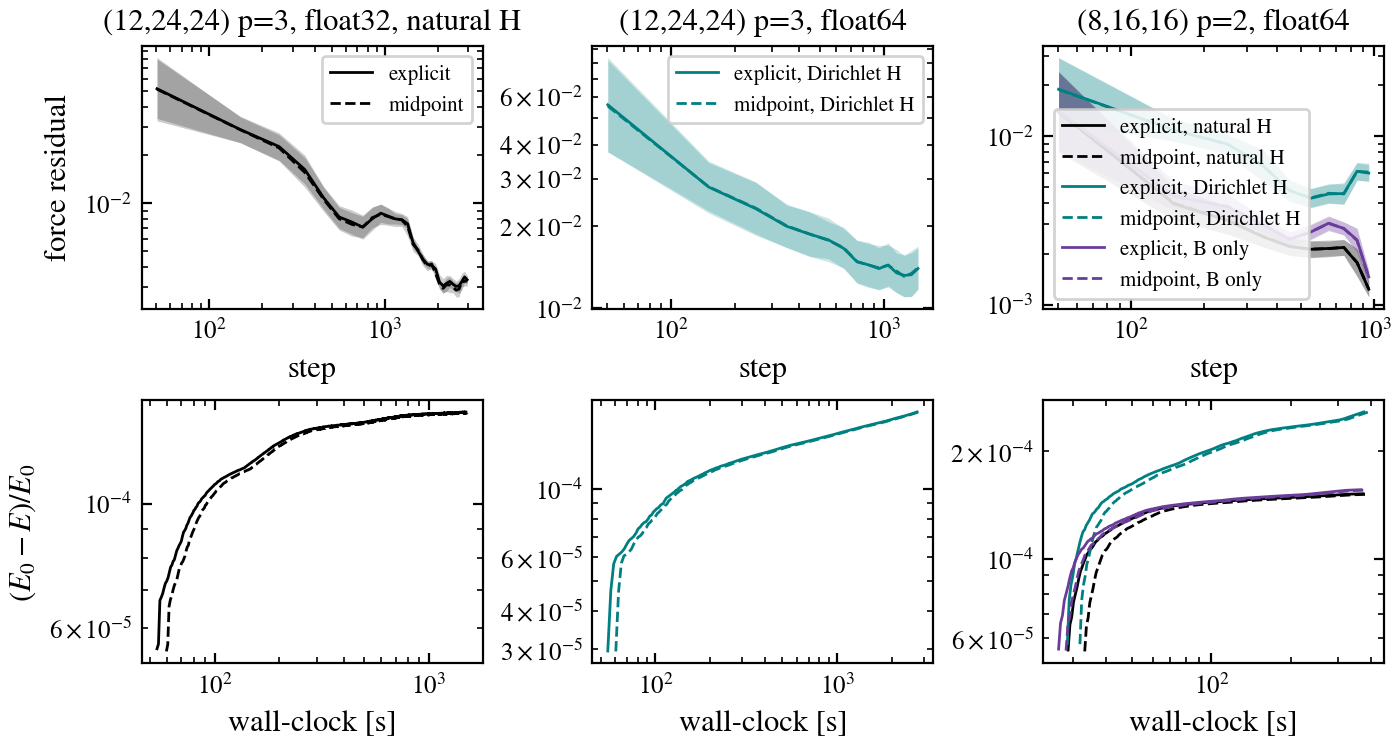
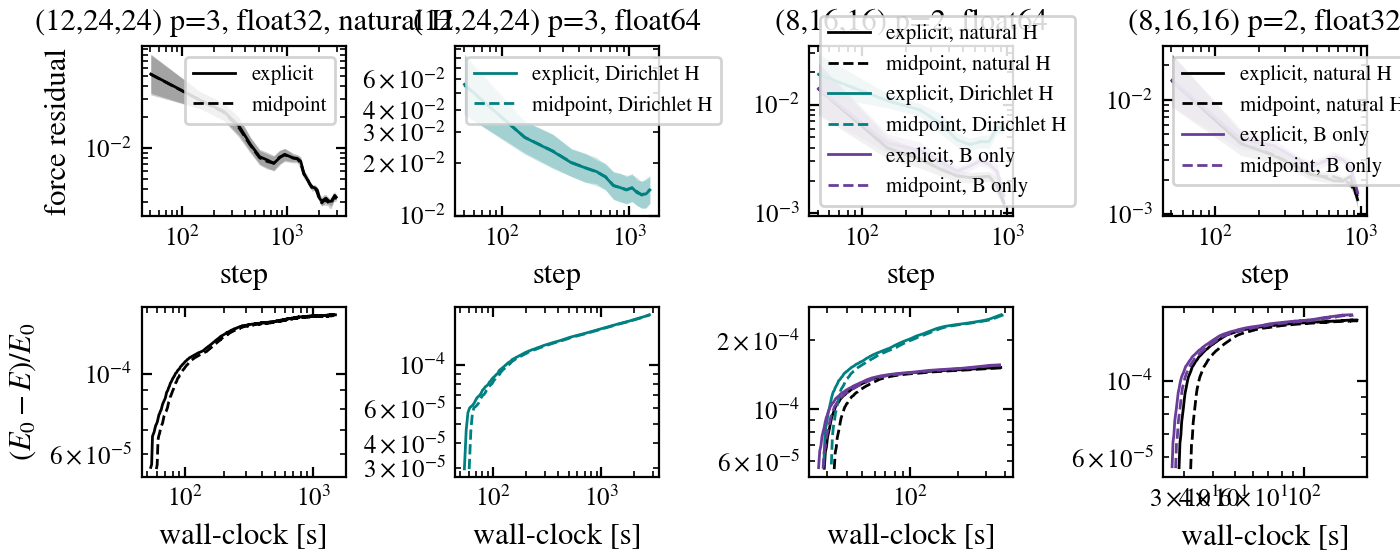
midpoint study: the (route) x (precision) x (scheme) figure on (8,16,16) p=2, float32 twins of the small arms

diff --git a/scripts/midpoint_figures.py b/scripts/midpoint_figures.py
@@ -29,11 +29,23 @@ ARMS = {
     "mp_small_f64_Hd":    ("small", 1, 1, "midpoint, Dirichlet H"),
     "ex_small_f64_bonly": ("small", 2, 0, "explicit, B only"),
     "mp_small_f64_bonly": ("small", 2, 1, "midpoint, B only"),
+    "ex_small_f32":       ("small32", 0, 0, "explicit, natural H"),
+    "mp_small_f32":       ("small32", 0, 1, "midpoint, natural H"),
+    "ex_small_f32_bonly": ("small32", 2, 0, "explicit, B only"),
+    "mp_small_f32_bonly": ("small32", 2, 1, "midpoint, B only"),
 }
 PANELS = {
     "f32": "(12,24,24) p=3, float32, natural H",
     "f64": "(12,24,24) p=3, float64",
     "small": "(8,16,16) p=2, float64",
+    "small32": "(8,16,16) p=2, float32",
+}
+#: The 2 x 2 x 2 comparison: (precision, route) -> (explicit arm, midpoint arm)
+EIGHT = {
+    ("float32", "H"): ("ex_small_f32", "mp_small_f32"),
+    ("float32", "B"): ("ex_small_f32_bonly", "mp_small_f32_bonly"),
+    ("float64", "H"): ("ex_small_f64", "mp_small_f64"),
+    ("float64", "B"): ("ex_small_f64_bonly", "mp_small_f64_bonly"),
 }
 
 
@@ -121,6 +133,34 @@ def picard_figure(arms, figdir):
     fig.savefig(os.path.join(figdir, "picard.png"))
 
 
+@house_style()
+def eight_figure(arms, figdir):
+    """Helicity and force traces of (route H / B only) x (float32 / float64) x
+    (explicit / midpoint) on the (8,16,16) p=2 mesh: rows the quantity,
+    columns the precision, colour the route, dash the scheme."""
+    d = dict(arms)
+    fig, axes = plt.subplots(2, 2, figsize=figsize("text", rows=2, cols=2, aspect=0.7), sharex="col")
+    for col, prec in enumerate(("float32", "float64")):
+        for route, colour in (("H", 0), ("B", 2)):
+            for dash, arm in enumerate(EIGHT[(prec, route)]):
+                if arm not in d:
+                    continue
+                j = d[arm]
+                st = arm_style(colour, dash, label=f"{'explicit' if dash == 0 else 'midpoint'}, "
+                                                   f"{'H' if route == 'H' else 'B only'}")
+                h = np.array(j["qoi"]["helicity"])
+                axes[0, col].plot(j["qoi"]["it"], h - j["ic"]["H"], marker=".", **st)
+                plot_trace(axes[1, col], j["trace"]["resid"], log=True, **st)
+        axes[0, col].axhline(0, color="0.7", lw=0.6, zorder=0)
+        axes[0, col].set_yscale("symlog", linthresh=1e-12)
+        axes[0, col].set(title=f"(8,16,16) p=2, {prec}")
+        axes[1, col].set(xscale="log", yscale="log", xlabel="step")
+        axes[0, col].legend()
+    axes[0, 0].set_ylabel(r"$H - H_0$  ($\|B\|_M = 1$)")
+    axes[1, 0].set_ylabel("force residual")
+    fig.savefig(os.path.join(figdir, "eight.png"))
+
+
 def summary(arms):
     rows = ["| arm | steps | stop | s/step | eval/step | dt halved | unconverged | E removed | resid final (mean last 100) | identity max | dH abs (from the IC) | dH / H0 |",
             "|---|---|---|---|---|---|---|---|---|---|---|---|"]
@@ -155,6 +195,7 @@ def main():
     helicity_figure(arms, figdir)
     descent_figure(arms, figdir)
     picard_figure(arms, figdir)
+    eight_figure(arms, figdir)
     table = summary(arms)
     with open(os.path.join(cli.root, "summary.md"), "w") as fh:
         fh.write(table + "\n")

diff --git a/docs/research/implicit_midpoint_2026-09-04.md b/docs/research/implicit_midpoint_2026-09-04.md
@@ -197,6 +197,22 @@ Sampled: explicit -6.7e-8 / -1.1e-7 / -1.0e-7 / -9.8e-8 / -9.5e-8 / -9.2e-8 /
 descent, same force floor, 1% more wall-clock, no halving, no unconverged
 step, energy monotone; the Picard defect ends at 5e-17.
 
+### 4.4 (route) x (precision) x (scheme), (8,16,16) p=2, 1000 steps: `eight.png`
+
+The float32 twins of the natural-H and B-only arms of 4.1:
+
+| arm | s/step | eval/step | E removed | ||F|| final | helicity drift (driver, from step 1) |
+|---|---|---|---|---|---|
+| explicit, natural H, float32 | 0.17 | 1 | -- | 2.1e-3 | -4.4e-7 |
+| midpoint, natural H, float32 | 0.17 | 2.01 | -- | -- | -5.0e-7 |
+| explicit, B only, float32 | 0.16 | 1 | -- | 2.9e-3 | -4.6e-8 |
+| midpoint, B only, float32 | 0.16 | 2.03 | -- | -- | -1.8e-7 |
+
+In float32 the four lines sit on the same floor as their float64 twins'
+projection errors (a few 1e-7), the midpoint correction is inside the
+solver tolerance (one sweep converges), and the "energy increases" count
+(130-180 of 1000) is the float32 resolution of `E ~ 0.5` again.
+
 ## 5. Verdict
 
 * **Implemented, on the branch, tested**: `--scheme midpoint`, the
@@ -223,12 +239,12 @@ step, energy monotone; the Picard defect ends at 5e-17.
 
 ## 6. GPU time
 
-5.5 h of the 10 h budget (`sacct`, gpu-h100, 2026-09-04 10:25-13:25):
+5.9 h of the 10 h budget (`sacct`, gpu-h100, 2026-09-04 10:25-14:15):
 1.4 h finding out that the nonlinear midpoint does not converge (two smoke
 runs, four probes, one Anderson and one preconditioner probe, two
 per-sweep traces), 0.5 h tests and smoke runs of the scheme that works,
-3.6 h the study (float32 production pair 0.95 h, float64 production pair
-1.7 h, six small float64 arms 0.9 h). Every arm ran on
+4.0 h the study (float32 production pair 0.95 h, float64 production pair
+1.7 h, six small float64 arms 0.9 h, four small float32 arms 0.4 h). Every arm ran on
 `.claude/worktrees/implicit-midpoint` through `slurm/run.sh` with the
 worktree on `PYTHONPATH` (the log header says so).
 

diff --git a/docs/research/implicit_midpoint_2026-09-04/summary.md b/docs/research/implicit_midpoint_2026-09-04/summary.md
@@ -10,3 +10,7 @@
 | mp_small_f64_Hd | 1000 | steps | 0.39 | 3.94 | 0 | 0 | 0.0257% | 5.637e-03 (6.154e-03) | 5.82e-05 | +4.871e-12 | +9.767e-10 |
 | ex_small_f64_bonly | 1000 | steps | 0.37 | 1.00 | 0 | 0 | 0.0156% | 1.435e-03 (1.465e-03) | 1.41e-12 | +1.443e-08 | +2.893e-06 |
 | mp_small_f64_bonly | 1000 | steps | 0.37 | 3.96 | 0 | 0 | 0.0155% | 1.283e-03 (1.454e-03) | 5.65e-05 | +8.506e-08 | +1.706e-05 |
+| ex_small_f32 | 1000 | steps | 0.17 | 1.00 | 0 | 0 | 0.0151% | 1.173e-03 (1.361e-03) | 1.54e-07 | -7.390e-07 | -1.482e-04 |
+| mp_small_f32 | 1000 | steps | 0.17 | 2.01 | 0 | 0 | 0.0150% | 1.466e-03 (1.445e-03) | 5.62e-05 | -5.024e-07 | -1.007e-04 |
+| ex_small_f32_bonly | 1000 | steps | 0.16 | 1.00 | 0 | 0 | 0.0156% | 1.335e-03 (1.542e-03) | 1.71e-07 | -3.055e-07 | -6.125e-05 |
+| mp_small_f32_bonly | 1000 | steps | 0.16 | 2.03 | 0 | 0 | 0.0156% | 1.414e-03 (1.518e-03) | 5.64e-05 | -2.054e-07 | -4.118e-05 |
